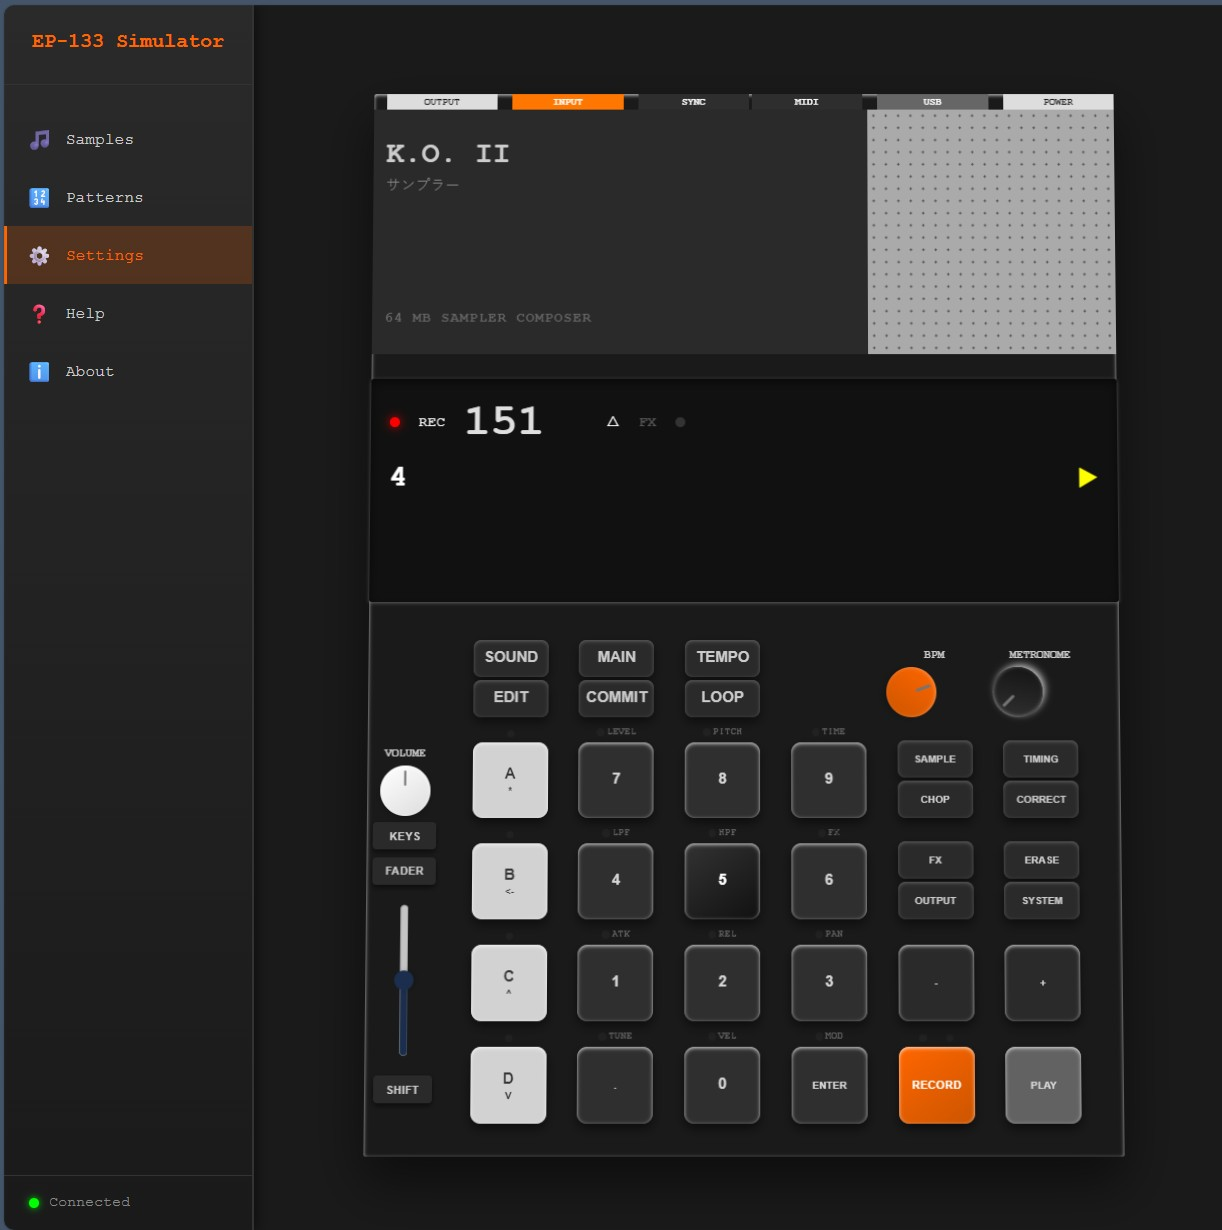
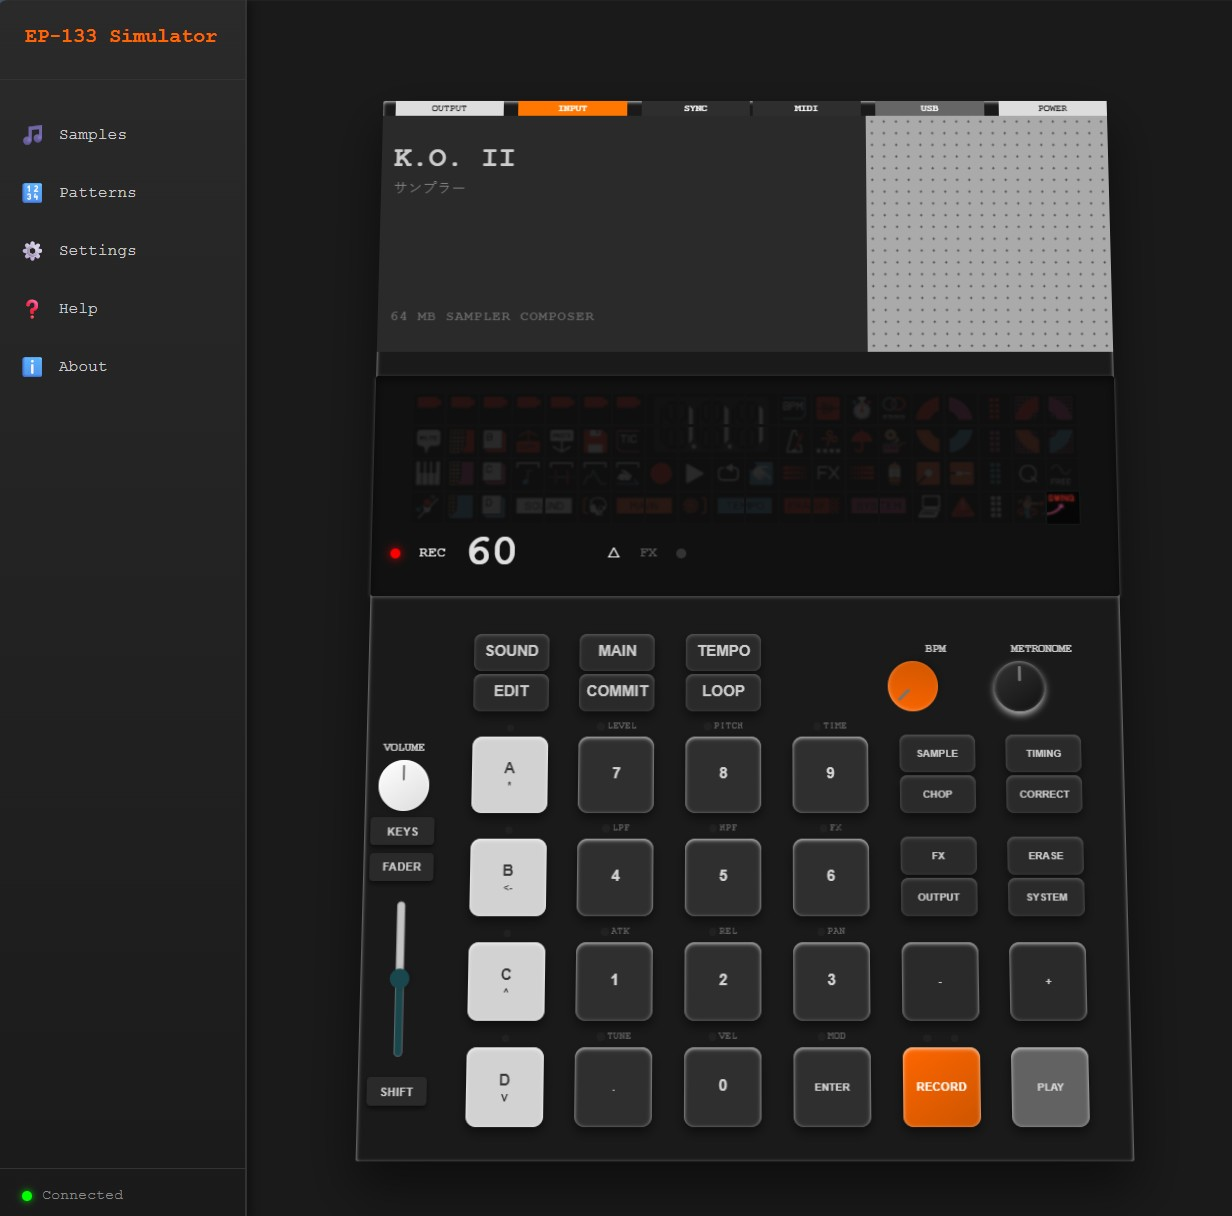
Checkpoint

diff --git a/index.html b/index.html
@@ -89,86 +89,92 @@
                     <div class="status-indicators">
                         <div class="status-grid">
                             <!-- 80 status icons in 20 columns x 4 rows -->
-                            <div class="status-icon" data-icon="1"></div>
-                            <div class="status-icon" data-icon="2"></div>
-                            <div class="status-icon" data-icon="3"></div>
-                            <div class="status-icon" data-icon="4"></div>
-                            <div class="status-icon" data-icon="5"></div>
-                            <div class="status-icon" data-icon="6"></div>
-                            <div class="status-icon" data-icon="7"></div>
-                            <div class="status-icon" data-icon="8"></div>
-                            <div class="status-icon" data-icon="9"></div>
-                            <div class="status-icon" data-icon="10"></div>
-                            <div class="status-icon" data-icon="11"></div>
-                            <div class="status-icon" data-icon="12"></div>
-                            <div class="status-icon" data-icon="13"></div>
-                            <div class="status-icon" data-icon="14"></div>
-                            <div class="status-icon" data-icon="15"></div>
-                            <div class="status-icon" data-icon="16"></div>
-                            <div class="status-icon" data-icon="17"></div>
-                            <div class="status-icon" data-icon="18"></div>
-                            <div class="status-icon" data-icon="19"></div>
-                            <div class="status-icon" data-icon="20"></div>
-                            <div class="status-icon" data-icon="21"></div>
-                            <div class="status-icon" data-icon="22"></div>
-                            <div class="status-icon" data-icon="23"></div>
-                            <div class="status-icon" data-icon="24"></div>
-                            <div class="status-icon" data-icon="25"></div>
-                            <div class="status-icon" data-icon="26"></div>
-                            <div class="status-icon" data-icon="27"></div>
-                            <div class="status-icon" data-icon="28"></div>
-                            <div class="status-icon" data-icon="29"></div>
-                            <div class="status-icon" data-icon="30"></div>
-                            <div class="status-icon" data-icon="31"></div>
-                            <div class="status-icon" data-icon="32"></div>
-                            <div class="status-icon" data-icon="33"></div>
-                            <div class="status-icon" data-icon="34"></div>
-                            <div class="status-icon" data-icon="35"></div>
-                            <div class="status-icon" data-icon="36"></div>
-                            <div class="status-icon" data-icon="37"></div>
-                            <div class="status-icon" data-icon="38"></div>
-                            <div class="status-icon" data-icon="39"></div>
-                            <div class="status-icon" data-icon="40"></div>
-                            <div class="status-icon" data-icon="41"></div>
-                            <div class="status-icon" data-icon="42"></div>
-                            <div class="status-icon" data-icon="43"></div>
-                            <div class="status-icon" data-icon="44"></div>
-                            <div class="status-icon" data-icon="45"></div>
-                            <div class="status-icon" data-icon="46"></div>
-                            <div class="status-icon" data-icon="47"></div>
-                            <div class="status-icon" data-icon="48"></div>
-                            <div class="status-icon" data-icon="49"></div>
-                            <div class="status-icon" data-icon="50"></div>
-                            <div class="status-icon" data-icon="51"></div>
-                            <div class="status-icon" data-icon="52"></div>
-                            <div class="status-icon" data-icon="53"></div>
-                            <div class="status-icon" data-icon="54"></div>
-                            <div class="status-icon" data-icon="55"></div>
-                            <div class="status-icon" data-icon="56"></div>
-                            <div class="status-icon" data-icon="57"></div>
-                            <div class="status-icon" data-icon="58"></div>
-                            <div class="status-icon" data-icon="59"></div>
-                            <div class="status-icon" data-icon="60"></div>
-                            <div class="status-icon" data-icon="61"></div>
-                            <div class="status-icon" data-icon="62"></div>
-                            <div class="status-icon" data-icon="63"></div>
-                            <div class="status-icon" data-icon="64"></div>
-                            <div class="status-icon" data-icon="65"></div>
-                            <div class="status-icon" data-icon="66"></div>
-                            <div class="status-icon" data-icon="67"></div>
-                            <div class="status-icon" data-icon="68"></div>
-                            <div class="status-icon" data-icon="69"></div>
-                            <div class="status-icon" data-icon="70"></div>
-                            <div class="status-icon" data-icon="71"></div>
-                            <div class="status-icon" data-icon="72"></div>
-                            <div class="status-icon" data-icon="73"></div>
-                            <div class="status-icon" data-icon="74"></div>
-                            <div class="status-icon" data-icon="75"></div>
-                            <div class="status-icon" data-icon="76"></div>
-                            <div class="status-icon" data-icon="77"></div>
-                            <div class="status-icon" data-icon="78"></div>
-                            <div class="status-icon" data-icon="79"></div>
-                            <div class="status-icon" data-icon="80"></div>
+                            <div class="status-icon" id="1-battery" data-icon="1-battery"></div>
+                            <div class="status-icon" id="2-fadervaluehighest" data-icon="2-fadervaluehighest"></div>
+                            <div class="status-icon" id="3-groupaactive" data-icon="3-groupaactive"></div>
+                            <div class="status-icon" id="4-syncactivity" data-icon="4-syncactivity"></div>
+                            <div class="status-icon" id="5-midiactivity" data-icon="5-midiactivity"></div>
+                            <div class="status-icon" id="6-usbmidi" data-icon="6-usbmidi"></div>
+                            <div class="status-icon" id="7-barmode" data-icon="7-barmode"></div>
+                            <div class="status-icon" id="8" data-icon="8"></div>
+                            <div class="status-icon" id="9" data-icon="9"></div>
+                            <div class="status-icon" id="10" data-icon="10"></div>
+                            <div class="status-icon" id="11" data-icon="11"></div>
+                            <div class="status-icon" id="12-bpm" data-icon="12-bpm"></div>
+                            <div class="status-icon" id="13-samplemode" data-icon="13-samplemode"></div>
+                            <div class="status-icon" id="14-time" data-icon="14-time"></div>
+                            <div class="status-icon" id="15-stereo" data-icon="15-stereo"></div>
+                            <div class="status-icon" id="16-xlevel2" data-icon="16-xlevel2"></div>
+                            <div class="status-icon" id="17-xlevel3" data-icon="17-xlevel3"></div>
+                            <div class="status-icon" id="18-highlevel" data-icon="18-highlevel"></div>
+                            <div class="status-icon" id="19-ylevel2" data-icon="19-ylevel2"></div>
+                            <div class="status-icon" id="20-ylevel3" data-icon="20-ylevel3"></div>
+
+                            <!-- Row 2 -->
+                            <div class="status-icon" id="21-mute" data-icon="21-mute"></div>
+                            <div class="status-icon" id="22-fadervaluehigh" data-icon="22-fadervaluehigh"></div>
+                            <div class="status-icon" id="23-groupbactive" data-icon="23-groupbactive"></div>
+                            <div class="status-icon" id="24-copy" data-icon="24-copy"></div>
+                            <div class="status-icon" id="25-paste" data-icon="25-paste"></div>
+                            <div class="status-icon" id="26-floppy" data-icon="26-floppy"></div>
+                            <div class="status-icon" id="27-ticmode" data-icon="27-ticmode"></div>
+                            <div class="status-icon" id="28" data-icon="28"></div>
+                            <div class="status-icon" id="29" data-icon="29"></div>
+                            <div class="status-icon" id="30" data-icon="30"></div>
+                            <div class="status-icon" id="31" data-icon="31"></div>
+                            <div class="status-icon" id="32-metronome" data-icon="32-metronome"></div>
+                            <div class="status-icon" id="33-chop" data-icon="33-chop"></div>
+                            <div class="status-icon" id="34-umbrella" data-icon="34-umbrella"></div>
+                            <div class="status-icon" id="35-mono" data-icon="35-mono"></div>
+                            <div class="status-icon" id="36-xlevel1" data-icon="36-xlevel1"></div>
+                            <div class="status-icon" id="37-xlevel4" data-icon="37-xlevel4"></div>
+                            <div class="status-icon" id="38-highmidlevel" data-icon="38-highmidlevel"></div>
+                            <div class="status-icon" id="39-ylevel1" data-icon="39-ylevel1"></div>
+                            <div class="status-icon" id="40-ylevel4" data-icon="40-ylevel4"></div>
+
+                            <!-- Row 3 -->
+                            <div class="status-icon" id="41-keysmode" data-icon="41-keysmode"></div>
+                            <div class="status-icon" id="42-fadervaluelow" data-icon="42-fadervaluelow"></div>
+                            <div class="status-icon" id="43-groupcactive" data-icon="43-groupcactive"></div>
+                            <div class="status-icon" id="44-sound" data-icon="44-sound"></div>
+                            <div class="status-icon" id="45-trim" data-icon="45-trim"></div>
+                            <div class="status-icon" id="46-envelope" data-icon="46-envelope"></div>
+                            <div class="status-icon" id="47-time" data-icon="47-time"></div>
+                            <div class="status-icon" id="48-record" data-icon="48-record"></div>
+                            <div class="status-icon" id="49-play" data-icon="49-play"></div>
+                            <div class="status-icon" id="50-loop" data-icon="50-loop"></div>
+                            <div class="status-icon" id="51-numpadactive" data-icon="51-numpadactive"></div>
+                            <div class="status-icon" id="52-fxactive" data-icon="52-fxactive"></div>
+                            <div class="status-icon" id="53-fxmode" data-icon="53-fxmode"></div>
+                            <div class="status-icon" id="54-fxactive" data-icon="54-fxactive"></div>
+                            <div class="status-icon" id="55-compressor" data-icon="55-compressor"></div>
+                            <div class="status-icon" id="56-mic" data-icon="56-mic"></div>
+                            <div class="status-icon" id="57-linein" data-icon="57-linein"></div>
+                            <div class="status-icon" id="58-lowmidlevel" data-icon="58-lowmidlevel"></div>
+                            <div class="status-icon" id="59-quantizemode" data-icon="59-quantizemode"></div>
+                            <div class="status-icon" id="60-freetimemode" data-icon="60-freetimemode"></div>
+
+                            <!-- Row 4 -->
+                            <div class="status-icon" id="61-faderautomation" data-icon="61-faderautomation"></div>
+                            <div class="status-icon" id="62-fadervaluelowest" data-icon="62-fadervaluelowest"></div>
+                            <div class="status-icon" id="63-groupdactive" data-icon="63-groupdactive"></div>
+                            <div class="status-icon" id="64-soundmode" data-icon="64-soundmode"></div>
+                            <div class="status-icon" id="65-soundmode" data-icon="65-soundmode"></div>
+                            <div class="status-icon" id="66-autosave" data-icon="66-autosave"></div>
+                            <div class="status-icon" id="67-mainmode" data-icon="67-mainmode"></div>
+                            <div class="status-icon" id="68-mainmode" data-icon="68-mainmode"></div>
+                            <div class="status-icon" id="69-newpattern" data-icon="69-newpattern"></div>
+                            <div class="status-icon" id="70-tempo" data-icon="70-tempo"></div>
+                            <div class="status-icon" id="71-tempo" data-icon="71-tempo"></div>
+                            <div class="status-icon" id="72-erase" data-icon="72-erase"></div>
+                            <div class="status-icon" id="73-erase" data-icon="73-erase"></div>
+                            <div class="status-icon" id="74-system" data-icon="74-system"></div>
+                            <div class="status-icon" id="75-system" data-icon="75-system"></div>
+                            <div class="status-icon" id="76-computer" data-icon="76-computer"></div>
+                            <div class="status-icon" id="77-clip" data-icon="77-clip"></div>
+                            <div class="status-icon" id="78-lowlevel" data-icon="78-lowlevel"></div>
+                            <div class="status-icon" id="79-swing" data-icon="79-swing"></div>
+                            <div class="status-icon" id="80-swing" data-icon="80-swing"></div>
                         </div>
                         <div class="status-info">
                             <div class="status-light red active"></div>
@@ -510,7 +516,7 @@
                 </div>
                 
                 <div class="about-info">
-                    <p><strong>Version:</strong> 1.0.0</p>
+                    <p><strong>Version:</strong> 0.0.1-Beta</p>
                     <p><strong>Developer:</strong> EP-133 Simulator Team</p>
                     <p><strong>Description:</strong> A web-based simulator for the Teenage Engineering EP-133 K.O. II Sampler Composer.</p>
                     

diff --git a/script.js b/script.js
@@ -945,9 +945,21 @@ class EP133Simulator {
         }
     }
 
+    // // Status icon management methods
+    // setStatusIcon(iconNumber, active = true) {
+    //     const icon = document.querySelector(`[data-icon="${iconNumber}"]`);
+    //     if (icon) {
+    //         if (active) {
+    //             icon.classList.add('active');
+    //         } else {
+    //             icon.classList.remove('active');
+    //         }
+    //     }
+    // }
+
     // Status icon management methods
     setStatusIcon(iconNumber, active = true) {
-        const icon = document.querySelector(`[data-icon="${iconNumber}"]`);
+        const icon = document.querySelector(`[data-icon^="${iconNumber}"]`);
         if (icon) {
             if (active) {
                 icon.classList.add('active');
